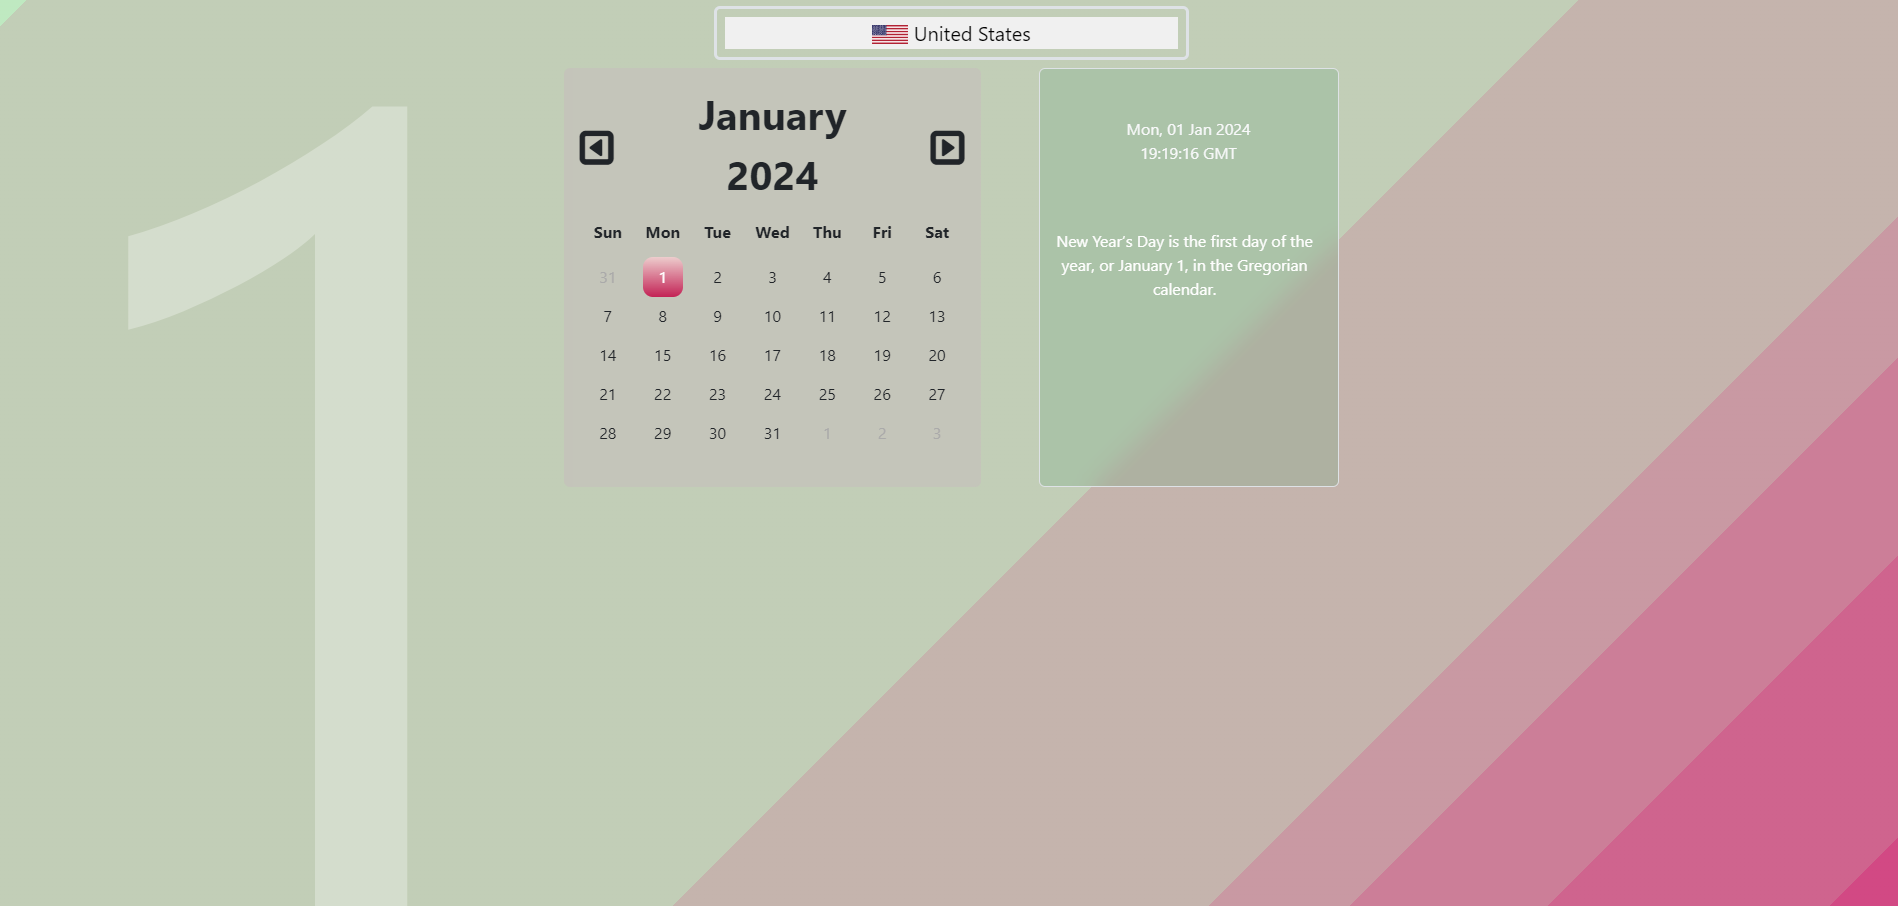
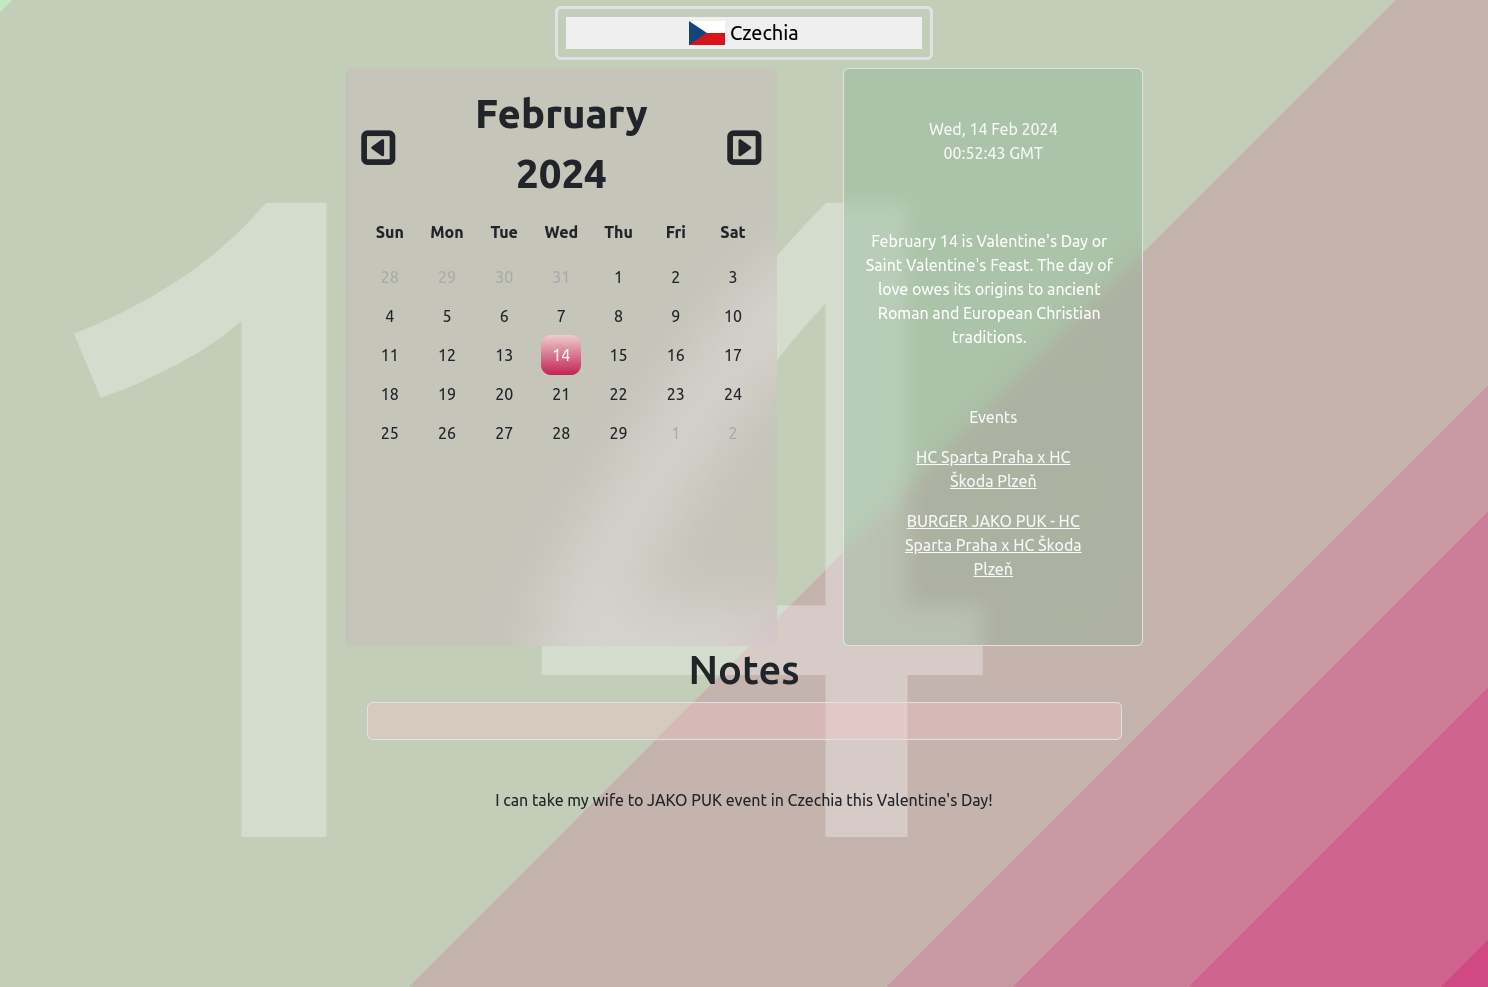
input customized

diff --git a/assets/js/note.js b/assets/js/note.js
@@ -1,13 +1,10 @@
 document.addEventListener("DOMContentLoaded", function(){
 
 const inputBox=document.getElementById("input");
-const days = document.querySelector(".days");
-days.addEventListener("click", function(event){
 
-    console.log("this is days", days)
+days.addEventListener("click", function(event){
     console.log("this is event", event)
     if(event.target.tagName==="LI"){
-
      inputBox.style.display="block"
     }
 });
@@ -17,8 +14,13 @@ inputBox.addEventListener("input",function(event){
     console.log(userValue)
     localStorage.setItem("userKey", userValue)
     const noteValue1=document.getElementById("noteValue");
-console.log(noteValue1)
-noteValue1.textContent=localStorage.getItem("userKey")
+    console.log(noteValue1)
+    noteValue1.textContent=localStorage.getItem("userKey")
 })
 
 })
+
+
+const noteValue1=document.getElementById("noteValue");
+console.log(noteValue1)
+noteValue1.textContent=localStorage.getItem("userKey")

diff --git a/index.html b/index.html
@@ -18,10 +18,11 @@
     <!-- Internal Stylesheet -->
     <link rel="stylesheet" href="./assets/css/style.css" />
     <link rel="stylesheet" href="./assets/css/input-btn.css" />
+    <link rel="stylesheet" href="./assets/css/input.css">
     <title>Traveler's Diary</title>
   </head>
 
-  <body>
+  <body class="text-center">
     <div class="dayNum"></div>
     <header></header>
 
@@ -79,21 +80,12 @@
         </div>
       </div>
     </main>
-    <input type="text" id="input" style="display: none;">
-   <h1>Notes</h1>
-    
-    <ul>
-      <li id="noteValue"></li>
-      <li></li>
-      <li></li>
-    </ul>
-    
-    
-    
-
-    </ul>
-  </input>
-
+    <div class="input">
+      <h1>Notes</h1>
+      <input type="text" id="input" style="display: none;" class="form-control w-50 mx-auto mt-2">
+      <p id="noteValue" class="m-5"></p>
+    </div>
+ 
     <footer></footer>
 
     <!-- Bootstrap -->

diff --git a/assets/js/calendar.js b/assets/js/calendar.js
@@ -59,7 +59,7 @@ function selectDay(selectedDay, newDay) {
   newDay.classList.add("active");
   console.log(`Selected day: ${selectedDay}`);
   console.log(date);
-  panelText.textContent = date;
+  panelText.textContent = date.format("DD MMMM YYYY");
   eventAppend();
   var bgNum = document.querySelector(".dayNum");
   bgNum.textContent = selectedDay

diff --git a/assets/js/script.js b/assets/js/script.js
@@ -1,6 +1,6 @@
 // fetch countries and flags.
 
-let calendarificAPI = "GZiM5Owb7C2IAkKQQ2iQFVGSBhVvr5Jc";
+let calendarificAPI = "60t7WfLRDHgTcXq9deFI5pBc7F34hBVs";
 
 // response to clicking user input buttons.
 $(document).on('click', '.country-btn', function(event) {

diff --git a/assets/css/input.css b/assets/css/input.css
@@ -1,10 +1,4 @@
 #input{
-    background-color: pink;
+    background-color: rgb(255, 192, 203, 0.3);
 }
   
-  
-  .input ul li {
-    background: pink;
-    color: darkblue;
-    margin: 5px;
-  }

diff --git a/README.md b/README.md
@@ -1,8 +1,8 @@
-# Badass Days
+# Event Listener
 
 ## Description
 
-Badass Days is a web application that displays a calendar with special holidays and events, allowing users to explore and plan for holidays or trips, whether abroad or local. for each specific day if a holiday for the selected country matches that date, a brief description is displayed to the right of the calendar, along with recommended attractions. Additionally, a note taking functionality allows the user to record memories and plans on their journies.
+Event Listener is a web application that displays a calendar with special holidays and events, allowing users to explore and plan for holidays or trips, whether abroad or local. for each specific day if a holiday for the selected country matches that date, a brief description is displayed to the right of the calendar, along with recommended attractions. Additionally, a note taking functionality allows the user to record memories and plans on their journies.
 
 ## Table of Contents
 
@@ -18,13 +18,10 @@ https://mdtoy-dev.github.io/Project-1/
 
 ## Screenshots
 
-### Wireframe
-
-![wireframe](./assets/images/wireframe.png)
-
 ### Calendar Overview
 
 ![calendar overview](./assets/images/calendar-overview.png)
+![calendar overview mobile](./assets/images/calendar-overview-mobile.png)
 
 ### Country Selection
 
